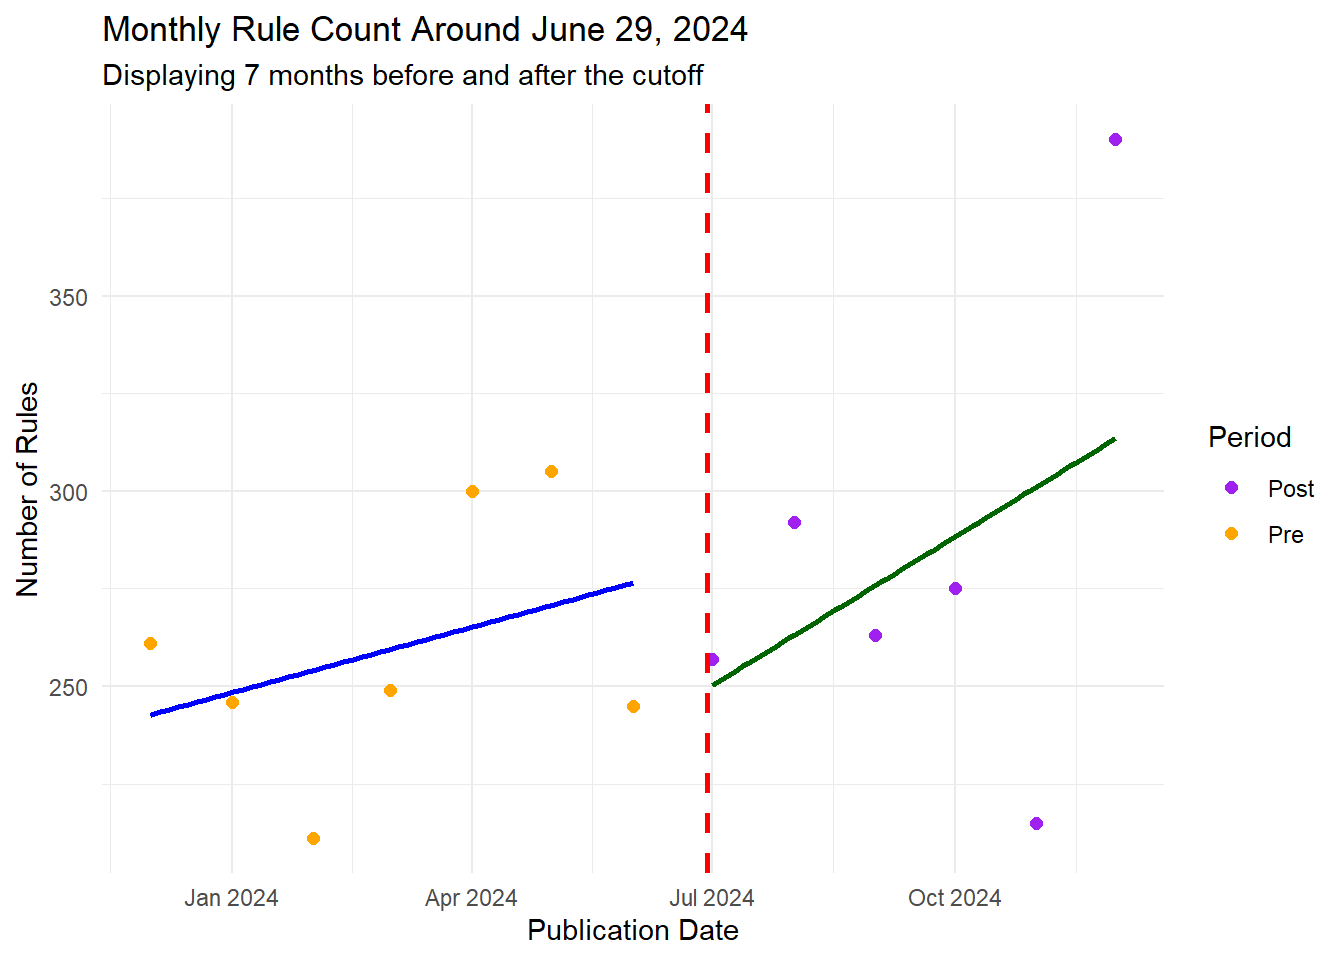
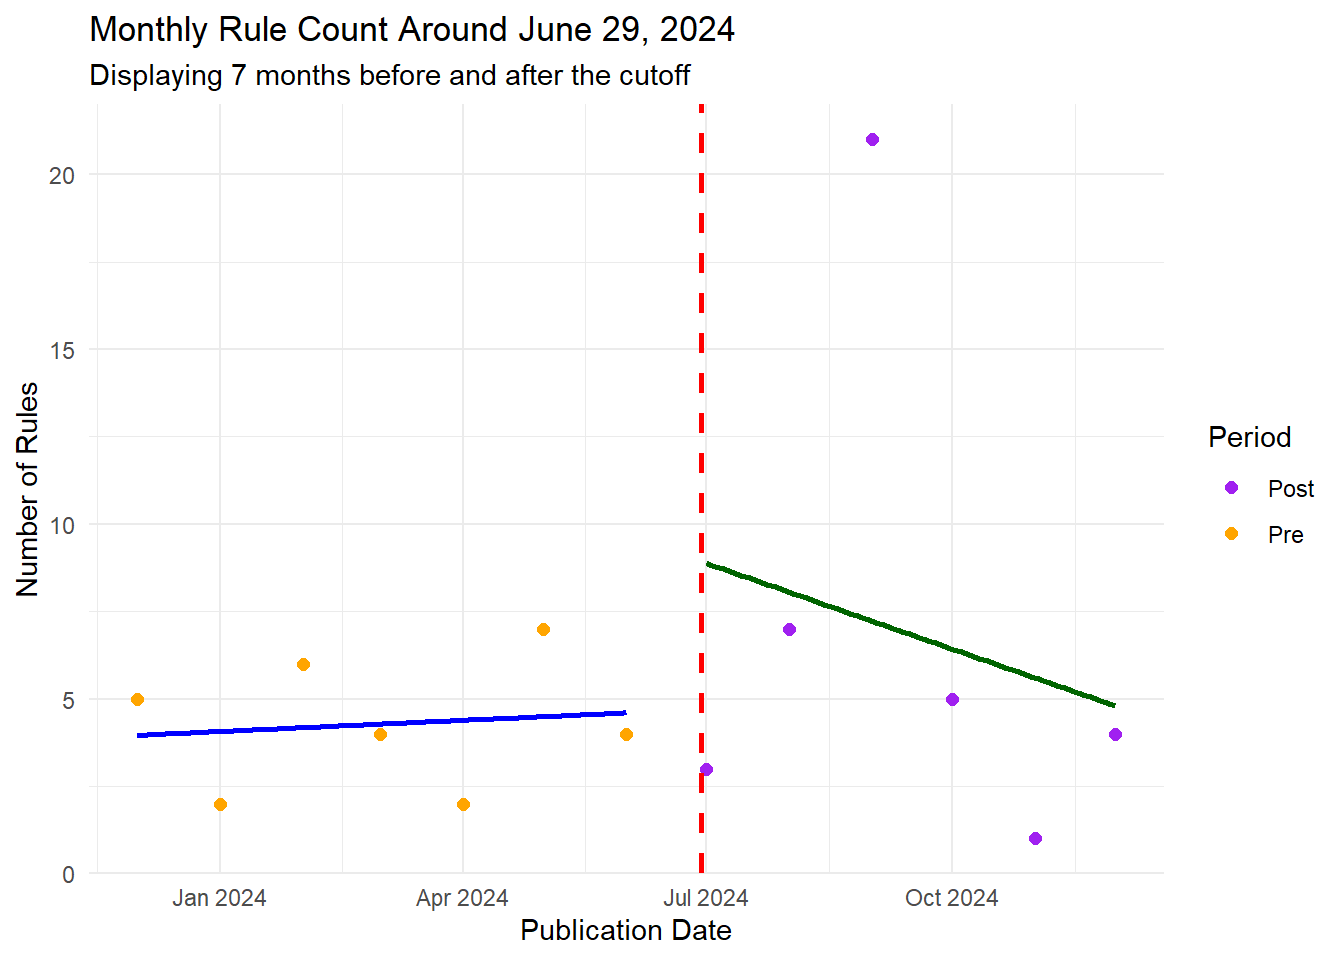
updated figs

diff --git a/Rule-Analysis qmd.html b/Rule-Analysis qmd.html
@@ -64,7 +64,7 @@ ul.task-list li input[type="checkbox"] {
 
 <section id="intro" class="level2">
 <h2 class="anchored" data-anchor-id="intro">Intro</h2>
-<p>In the summer of 2024, the Supreme Court issued two landmark rulings – <em>Ohio v. EPA</em> on June 27, 2024, and <em>Loper Bright Enterprises v. Raimondo</em> on June 28, 2024 – that transformed the regulatory landscape for federal agencies. In <em>Ohio v. EPA</em>, the Court held that an agency's failure to adequately respond to significant public comments during the notice-and-comment process renders its rules arbitrary and capricious. The following day, in <em>Loper Bright v. Raimondo</em>, the Courtoverruled Chevron deference, directing lower courts to interpret statutory ambiguities independently rather than deferring to agency interpretations. In doing so, the Court substantially reduced agency latitude in interpreting legislative "gray areas".</p>
+<p>In the summer of 2024, the Supreme Court issued two landmark rulings – <em>Ohio v. EPA</em> on June 27, 2024, and <em>Loper Bright Enterprises v. Raimondo</em> on June 28, 2024 – that transformed the regulatory landscape for federal agencies. In <em>Ohio v. EPA</em>, the Court held that an agency’s failure to adequately respond to significant public comments during the notice-and-comment process renders its rules arbitrary and capricious. The following day, in <em>Loper Bright v. Raimondo</em>, the Courtoverruled Chevron deference, directing lower courts to interpret statutory ambiguities independently rather than deferring to agency interpretations. In doing so, the Court substantially reduced agency latitude in interpreting legislative “gray areas”.</p>
 <p>We hypothesize that these decision created an environment where agencies are less likely to publish formal rules. The increased logistical burden of addressing public comments post-<em>Ohio v. EPA</em> and the heightened risk of litigation over statutory interpretations post-<em>Loper Bright</em> likely discourage rulemaking. To investigate this hypothesis, we employ quantitative methods—specifically, regression-discontinuity and interrupted time series analyses—using the period following the release of Loper Bright Enterprises v. Raimondo (starting June 29, 2024) as a cutoff. This study aims to empirically assess how these Supreme Court rulings have impacted agency rulemaking behavior.</p>
 </section>
 <section id="running-code" class="level2">
@@ -130,30 +130,33 @@ lm(formula = count ~ treatment + distance + I(distance^2) + month +
     transition, data = rules_per_month_year)
 
 Residuals:
-ALL 15 residuals are 0: no residual degrees of freedom!
+     Min       1Q   Median       3Q      Max 
+-15.9969  -3.4676  -0.7539   2.8550  21.0793 
 
-Coefficients: (1 not defined because of singularities)
-              Estimate Std. Error t value Pr(&gt;|t|)
-(Intercept)     53.108        NaN     NaN      NaN
-treatment        8.726        NaN     NaN      NaN
-distance         9.062        NaN     NaN      NaN
-I(distance^2)    5.958        NaN     NaN      NaN
-month.L          6.735        NaN     NaN      NaN
-month.Q       -202.165        NaN     NaN      NaN
-month.C         78.725        NaN     NaN      NaN
-month^4         68.110        NaN     NaN      NaN
-month^5         17.077        NaN     NaN      NaN
-month^6         89.219        NaN     NaN      NaN
-month^7         21.415        NaN     NaN      NaN
-month^8         -8.878        NaN     NaN      NaN
-month^9         28.337        NaN     NaN      NaN
-month^10        30.352        NaN     NaN      NaN
-month^11            NA         NA      NA       NA
-transition     145.000        NaN     NaN      NaN
+Coefficients:
+                Estimate Std. Error t value Pr(&gt;|t|)    
+(Intercept)    2.442e+00  9.451e-01   2.584  0.01016 *  
+treatment      3.441e+00  2.428e+00   1.417  0.15732    
+distance      -6.039e-02  1.139e-02  -5.303 2.01e-07 ***
+I(distance^2) -9.115e-05  2.991e-05  -3.047  0.00248 ** 
+month.L        1.017e+00  1.025e+00   0.992  0.32191    
+month.Q       -3.346e-01  1.022e+00  -0.328  0.74346    
+month.C        2.708e+00  1.025e+00   2.643  0.00859 ** 
+month^4       -1.013e-02  1.023e+00  -0.010  0.99210    
+month^5        1.645e+00  1.024e+00   1.606  0.10905    
+month^6        1.175e+00  1.025e+00   1.147  0.25231    
+month^7       -2.539e+00  1.025e+00  -2.477  0.01372 *  
+month^8        1.699e+00  1.025e+00   1.658  0.09827 .  
+month^9       -1.833e+00  1.025e+00  -1.788  0.07466 .  
+month^10       9.035e-01  1.025e+00   0.881  0.37868    
+month^11      -3.537e-01  1.025e+00  -0.345  0.73034    
+transition     4.935e-01  9.685e-01   0.510  0.61070    
+---
+Signif. codes:  0 '***' 0.001 '**' 0.01 '*' 0.05 '.' 0.1 ' ' 1
 
-Residual standard error: NaN on 0 degrees of freedom
-Multiple R-squared:      1, Adjusted R-squared:    NaN 
-F-statistic:   NaN on 14 and 0 DF,  p-value: NA</code></pre>
+Residual standard error: 5.707 on 357 degrees of freedom
+Multiple R-squared:  0.2594,    Adjusted R-squared:  0.2283 
+F-statistic: 8.338 on 15 and 357 DF,  p-value: 2.379e-16</code></pre>
 </div>
 </div>
 <p>Now, let’s visualize the RD regression, displaying the number of rules published in the 7 months before and after the cutoff date</p>
@@ -178,27 +181,161 @@ F-statistic:   NaN on 14 and 0 DF,  p-value: NA</code></pre>
 </div>
 <div class="cell-output cell-output-stdout">
 <pre><code>     Jan Feb Mar Apr May Jun Jul Aug Sep Oct Nov Dec
-2023                                         229 261
-2024 246 211 249 300 305 245 257 292 263 275 215 390
-2025 228                                            </code></pre>
+1994   6   0   0   0   0   0   0   0   0   0   0   0
+1995   7   6   8   8   7  13  10  10  10   9   9   9
+1996  12   9  18  11  10  10  11  14   9  12   9  12
+1997  10   6  16  17  23  22  26  16  20  14  21  21
+1998   6  24  29  17  26  25  28  34  26  21  29  21
+1999  18   9  27  20  22  11   8  25  22  13  14  17
+2000  10   9  23  19  12  16  27  20  15  18  18  10
+2001  13   5  23  15  13   8   8   5  14   3   9  11
+2002   4  16   7   9  15  10  16   9   2   8   8  32
+2003  10  11  15  10  10  23  18  16  19  16   5  11
+2004   8  15  22  13  19  12  11  26   8  14  11  20
+2005   7  12  13   9   4  11  11  10   6   4  15  14
+2006   8   8  16   5   8  12  18   8  16   3  12  13
+2007  13   9  18  14  11   8  10  14   6  10  10  11
+2008   8  12  14  12   8  11   4  10   7  10   8   6
+2009   6   6  13   6   9   8   9  12   2   8  11   9
+2010   7   4  14  14   4   5   3   1  15   4  10   6
+2011   4   4  20   8   6   9  13   7   8   3   3  10
+2012  10  10   9   5  10   6   4   8   5   3   3   3
+2013   4   2  11   5   5   5   8   6   5   2  10  10
+2014   7  12   9  12   8  10  12   3   6   2   1   9
+2015   1   5   9   7   5  12   6   9  11   7  13   7
+2016   9   7   7   9  10  13  11  14  11   9  16  16
+2017   6   7   9   1   5   1  11   4   3  17  12  14
+2018  11   4  12   2  10  10   0   2   8  14   5   8
+2019   0   4   8  12   2   3   3   3   0   6   0   6
+2020   7   3   6   5   2   2   7   6   2   2   1   2
+2021   3   2   3   5   0   1   3   1   4   7   6  23
+2022   6  11  13   3   8   4   1   6   6   4   5  11
+2023  20   2  11   1   4   0   1   3   3   2   4   5
+2024   2   6   4   2   7   4   3   7  21   5   1   4
+2025   1                                            </code></pre>
 </div>
 <div class="cell-output cell-output-stdout">
 <pre><code>Series: ts_rules 
-Regression with ARIMA(0,0,0) errors 
+Regression with ARIMA(1,1,1)(0,0,2)[12] errors 
 
 Coefficients:
-      intercept  Intervention  TimeAfterIntervention
-       255.7500        9.8214                 2.1786
-s.e.    15.0112       38.8969                 8.0238
+          ar1      ma1    sma1    sma2  Intervention  TimeAfterIntervention
+      -0.0252  -0.7832  0.0634  0.1128        7.2282                -1.3801
+s.e.   0.0677   0.0442  0.0522  0.0519        4.3234                 0.9158
 
-sigma^2 = 2253:  log likelihood = -77.51
-AIC=163.02   AICc=167.02   BIC=165.86
+sigma^2 = 23.73:  log likelihood = -1114.51
+AIC=2243.02   AICc=2243.32   BIC=2270.45
 
 Training set error measures:
-                       ME     RMSE      MAE       MPE     MAPE      MASE
-Training set 1.794357e-11 42.45785 31.05238 -2.271478 11.50889 0.5786158
-                  ACF1
-Training set -0.414264</code></pre>
+                      ME     RMSE      MAE  MPE MAPE      MASE         ACF1
+Training set 0.003090028 4.825542 3.629745 -Inf  Inf 0.6842496 0.0004223061</code></pre>
+</div>
+</div>
+<div class="cell">
+<div class="cell-output cell-output-stdout">
+<pre><code># A tibble: 6 × 4
+   year month    rules guidance
+  &lt;dbl&gt; &lt;chr&gt;    &lt;int&gt;    &lt;int&gt;
+1  1996 January     12        0
+2  1996 February     9        1
+3  1996 March       18        5
+4  1996 April       11        2
+5  1996 May         10        2
+6  1996 June        10        1</code></pre>
+</div>
+</div>
+<div class="cell">
+<div class="cell-output cell-output-stdout">
+<pre><code># A tibble: 6 × 5
+   year month     rules guidance date      
+  &lt;dbl&gt; &lt;chr&gt;     &lt;int&gt;    &lt;int&gt; &lt;date&gt;    
+1  2025 January       1       14 2025-01-01
+2  2024 December      4        7 2024-12-01
+3  2024 November      1        7 2024-11-01
+4  2024 October       5       12 2024-10-01
+5  2024 September    21       19 2024-09-01
+6  2024 August        7       12 2024-08-01</code></pre>
+</div>
+</div>
+<div class="cell">
+<div class="cell-output cell-output-stderr">
+<pre><code>Warning: Removed 1 row containing missing values or values outside the scale range
+(`geom_point()`).</code></pre>
+</div>
+<div class="cell-output-display">
+<p><img src="Rule-Analysis-qmd_files/figure-html/plot%20proportion%20over%20time-1.png" class="img-fluid" width="672"></p>
+</div>
+</div>
+<div class="cell">
+<div class="cell-output cell-output-stderr">
+<pre><code>Warning: package 'scales' was built under R version 4.3.3</code></pre>
+</div>
+<div class="cell-output-display">
+<p><img src="Rule-Analysis-qmd_files/figure-html/plot%20proportion%20per%20year%20over%20time-1.png" class="img-fluid" width="672"></p>
+</div>
+</div>
+<div class="cell">
+<div class="cell-output cell-output-stdout">
+<pre><code>
+Call:
+lm(formula = proportion_rules ~ treatment + distance + I(distance^2) + 
+    month + transition, data = rd_data_proportion)
+
+Residuals:
+     Min       1Q   Median       3Q      Max 
+-0.55656 -0.11725  0.01667  0.10816  0.58338 
+
+Coefficients:
+                Estimate Std. Error t value Pr(&gt;|t|)    
+(Intercept)    2.908e-01  3.178e-02   9.152  &lt; 2e-16 ***
+treatment     -1.167e-02  7.999e-02  -0.146  0.88407    
+distance      -2.737e-03  4.145e-04  -6.602 1.61e-10 ***
+I(distance^2) -3.365e-06  1.168e-06  -2.882  0.00421 ** 
+month.L       -6.055e-02  3.501e-02  -1.730  0.08465 .  
+month.Q        3.680e-02  3.491e-02   1.054  0.29253    
+month.C        8.418e-02  3.499e-02   2.406  0.01669 *  
+month^4        2.570e-03  3.489e-02   0.074  0.94132    
+month^5        4.407e-02  3.488e-02   1.263  0.20736    
+month^6        3.728e-02  3.488e-02   1.069  0.28598    
+month^7        1.606e-02  3.490e-02   0.460  0.64577    
+month^8       -9.988e-03  3.488e-02  -0.286  0.77479    
+month^9       -1.450e-02  3.489e-02  -0.416  0.67797    
+month^10       1.727e-02  3.488e-02   0.495  0.62079    
+month^11      -8.881e-03  3.489e-02  -0.255  0.79924    
+transition     3.763e-02  2.794e-02   1.347  0.17896    
+---
+Signif. codes:  0 '***' 0.001 '**' 0.01 '*' 0.05 '.' 0.1 ' ' 1
+
+Residual standard error: 0.1878 on 332 degrees of freedom
+  (1 observation deleted due to missingness)
+Multiple R-squared:  0.4545,    Adjusted R-squared:  0.4298 
+F-statistic: 18.44 on 15 and 332 DF,  p-value: &lt; 2.2e-16</code></pre>
+</div>
+</div>
+<div class="cell">
+<div class="cell-output cell-output-stdout">
+<pre><code>
+Call:
+lm(formula = proportion_rules ~ time + intervention + time_after, 
+    data = combined_counts)
+
+Residuals:
+     Min       1Q   Median       3Q      Max 
+-0.59661 -0.11051  0.00793  0.12260  0.57236 
+
+Coefficients:
+               Estimate Std. Error t value Pr(&gt;|t|)    
+(Intercept)   0.9009803  0.0205667  43.808   &lt;2e-16 ***
+time         -0.0015611  0.0001045 -14.944   &lt;2e-16 ***
+intervention  0.0209604  0.1317879   0.159    0.874    
+time_after   -0.0324337  0.0357838  -0.906    0.365    
+---
+Signif. codes:  0 '***' 0.001 '**' 0.01 '*' 0.05 '.' 0.1 ' ' 1
+
+Residual standard error: 0.1905 on 344 degrees of freedom
+  (1 observation deleted due to missingness)
+Multiple R-squared:  0.4184,    Adjusted R-squared:  0.4133 
+F-statistic: 82.47 on 3 and 344 DF,  p-value: &lt; 2.2e-16</code></pre>
 </div>
 </div>
 </section>
